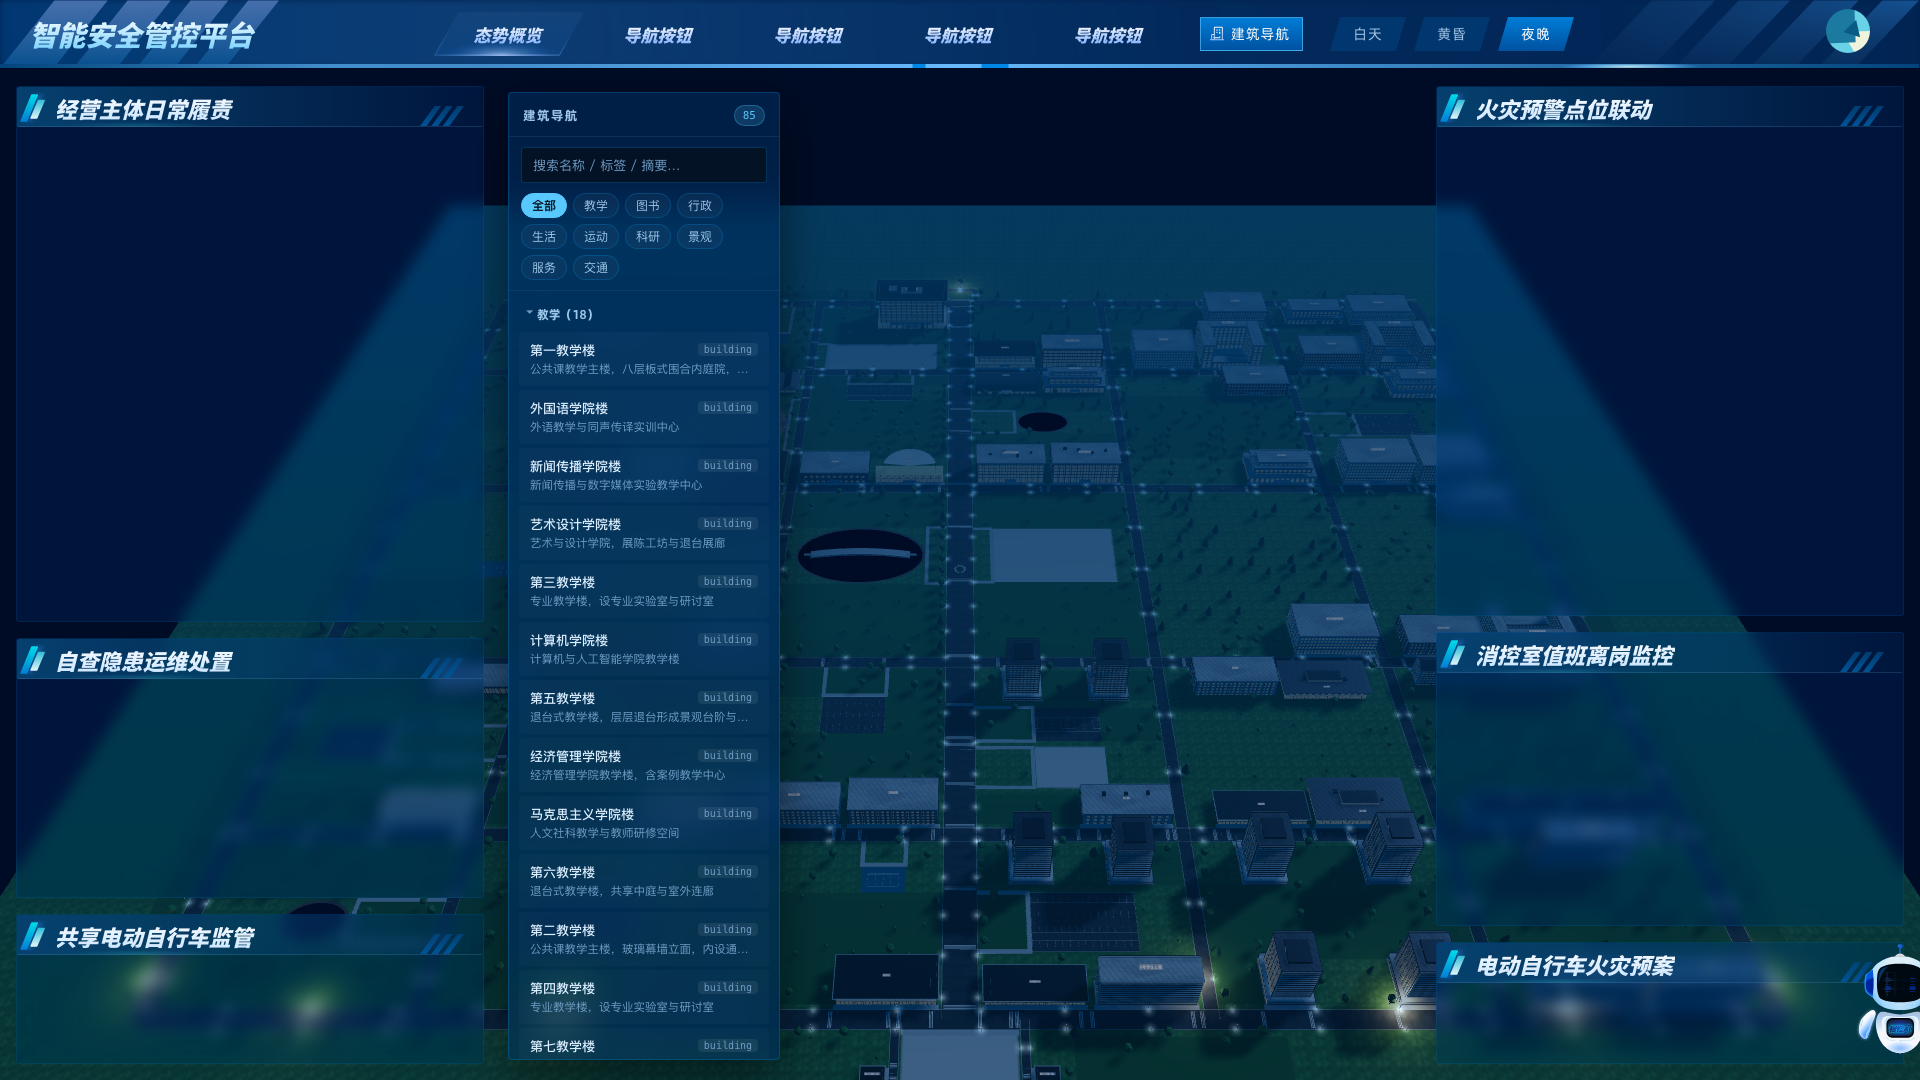
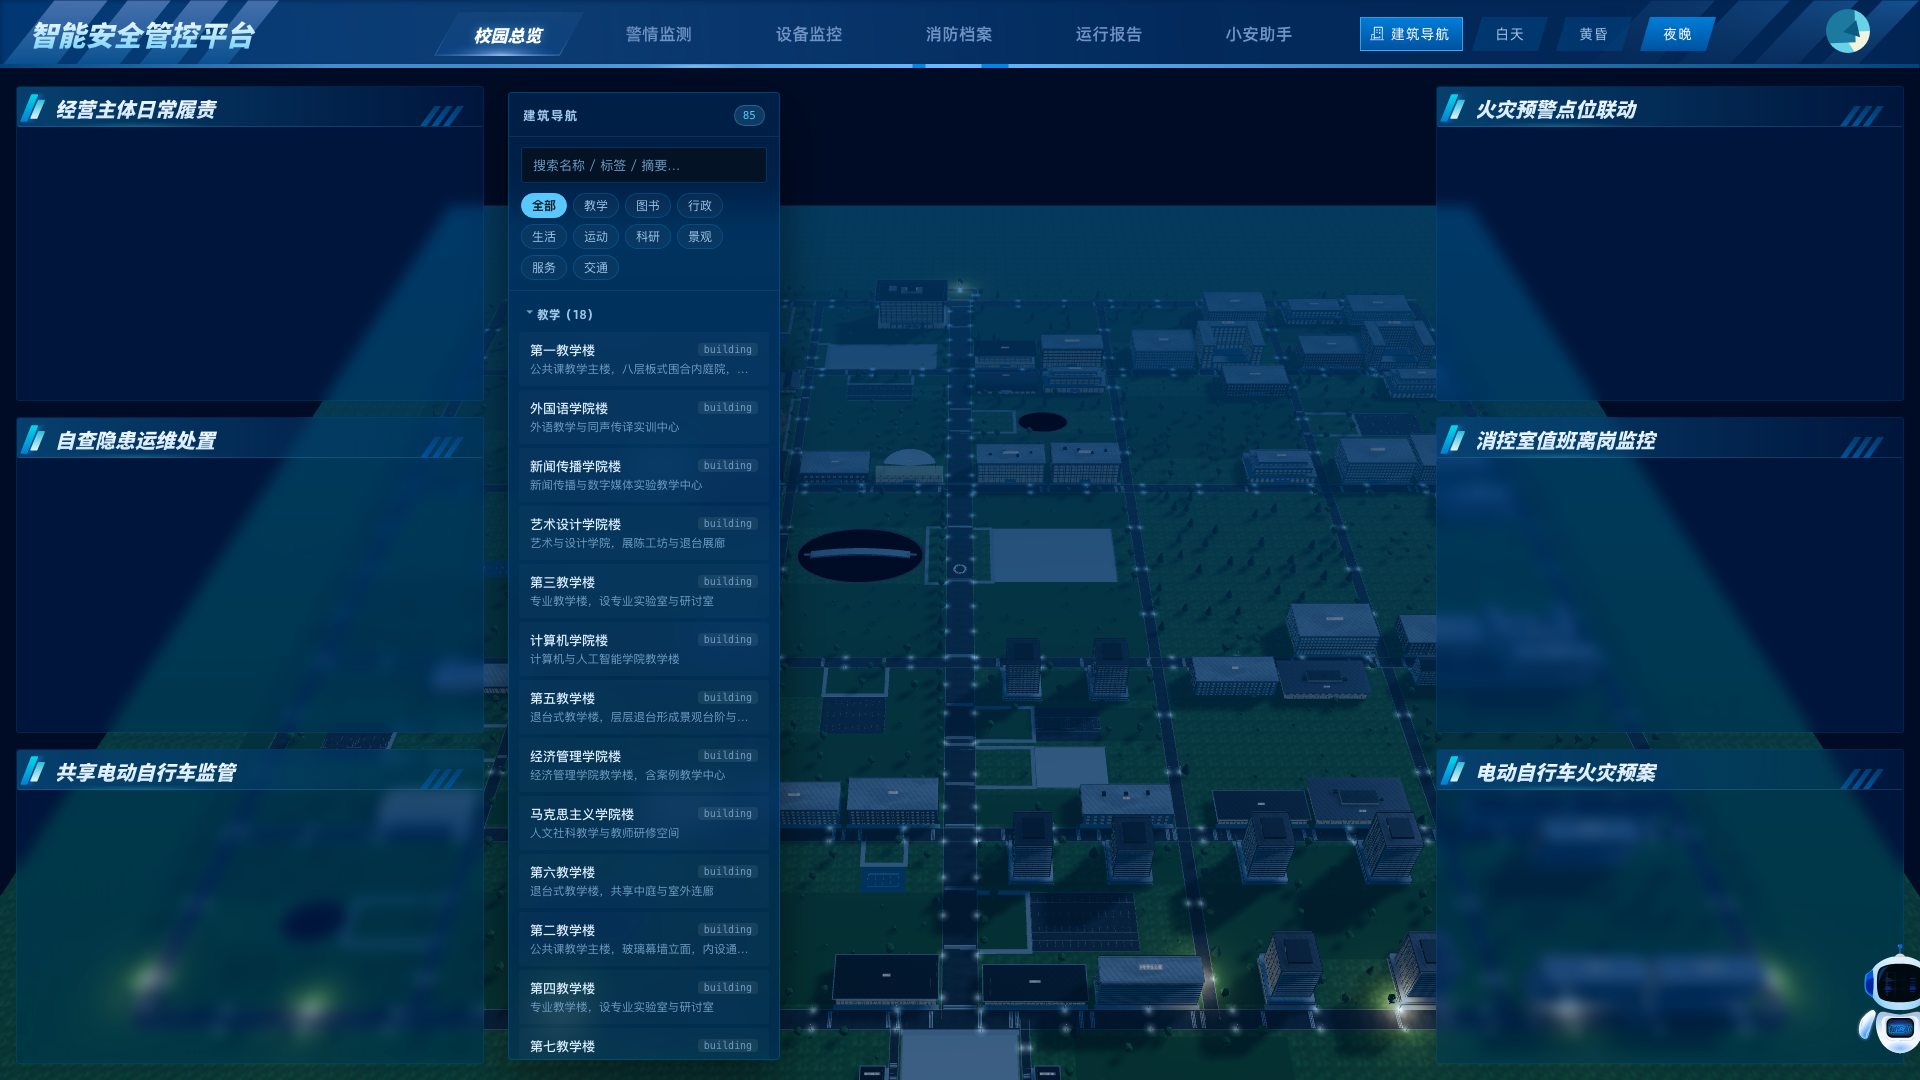
docs(大屏): 同步导航两态实测数据并归档对照截图
- 记录两态区分度的统一量法与三组对比数据（改造前 1.00× / 设计稿 1.18× / 改造后 1.52×）
- 替换原先无法复算的 3.55×/2.42× 数值
- 归档设计稿导出图、改造前后纯文字对照图与导航实拍图

diff --git a/.claude/CLAUDE.md b/.claude/CLAUDE.md
@@ -264,6 +264,22 @@ src/api/adapters/
 - **拟态玻璃**：标题条底衬 `rgba(0,52,106,.55)` + `blur(10px)`；模块卡片 `rgba(0,48,100,.28)` + `blur(7px)`，下层三维模型隐隐透出、模块内容仍清晰
 - **玻璃有帧率代价**：持续重绘的 WebGL 画布上，`backdrop-filter` 每帧重算，静止帧率 52→31fps（成本来自"存在 backdrop-filter"本身，不是模糊半径或图层数量）
 - **大标题字号走 prop**：`BigscreenTitleBar` 的 `titleSize` / `titleTop` 默认 36 / 10（旧大屏像素不变），v2 传 28 / 16；导航按钮 142×41 放大为 150×46
+- **顶栏按新版设计稿 frame #51:1776 / header #51:1783 还原**：玻璃底衬 `rgba(0,52,106,.55)` + `blur(10px)`、1932×68 斜纹图、1932×4 底部线（y=64）、144×4 辉光（y=64）、大标题 x=32 y=16 28px 渐变 `#FFFFFF→#7FD4FF`、导航 x=434 y=11、用户区 x=1767
+- **导航选中 / 未选中是两套字体与配色**（Figma 51:1800）：选中项 51:1801 = 斜切平行四边形底（`nav-v2-active-glow.svg` 径向辉光+描边 + `nav-v2-active-base.svg` 线性底 0.2）；未选中项无底图形
+- **导航两态的区分靠"选中更亮更细、未选中更暗更粗"**：设计稿给的未选中色 `#A8C8FF` 比选中渐变下段 `#89B5FF` 还亮，未选中又用普惠体 Bold（墨量大）、选中是细笔画的演示斜黑体，两态层级是反的。改为：**选中纯白 `#FFFFFF` + `text-shadow 0 0 10px rgba(120,200,255,.5)`；未选中 `#6E93C4` + 普惠体 Medium 500**
+- **两态区分度的实测口径与结论**（量法：亮度 L=0.2126R+0.7152G+0.0722B；取导航文字所在行区间 → 背景 = 该区间亮度 20 分位 → 文字像素 = L > 背景+30 → 峰值 = 最大 L、P90 = 最亮 10% 文字像素均值、全像素均亮 = 文字像素均值；比值 = 选中值 ÷ 5 个未选中值均值）：
+  | 对象 | 峰值比 | P90 比 | 全像素均亮比 |
+  |---|---|---|---|
+  | 实现·改造前 | 1.00× | 1.00× | 0.95× |
+  | 设计稿 51:1800 | 1.18× | 1.19× | 1.04× |
+  | 实现·改造后 | 1.52× | 1.58× | 1.25× |
+  - 改造前实现里 6 项共用同一条 `.v2-nav__text` 规则，文字像素完全一致（1.00×），两态差别只来自选中项底部的平行四边形图形
+  - 设计稿自身两态也很接近（均亮 1.04×），所以照设计稿直译同样看不出差别
+  - 量的时候必须先隐藏 `.v2-nav__glow` / `.v2-nav__fill`，否则选中项的底图形与辉光会混进"文字像素"污染数值
+  - 原始截图：`screenshots/ebike-compare/_nav-textonly-before.png`、`_nav-textonly-after.png`、`_figma-nav-51-1800.png`
+- **选中文字不用 `background-clip` 渐变**：17px 小字上垂直渐变几乎看不出，且渐变裁剪会把 `text-shadow` 一起裁掉、辉光显示异常
+- **导航字体用独立字体族名声明**（`ebike-v2-fonts.css` 的 `NavKeynote` / `NavPuHuiTiMedium`）：直接声明 `Alibaba PuHuiTi` 只给单个字重会让页面其它位置被合成，故换族名只作用于导航。代价是两个字体文件共 19.5MB（`Source-KeynoteartHans.otf` 10MB + `Alibaba-PuHuiTi-Medium.ttf` 9.5MB）
+- **建筑导航开关与昼夜切换不在设计稿里**，是自加控件，放在导航与用户区之间的空档（建筑导航 x=1360、昼夜 x=1472，用户区从 1767 起）；导航增到 6 项后右边界到 1334，原位置 1200 / 1330 会压住按钮
 - **顶栏底图按 68px 通栏重排**（`src/assets/bigscreen/ebike-v2/header-bg.svg`）：斜纹组 `translate(0 -6) scale(1 1.0625)` 拉到 0~68 满高
 - **`<img>` 加载的 SVG 默认会上下留白居中**：盒子的宽高比与 SVG 自身 viewBox 比例不一致时，浏览器按 `preserveAspectRatio="xMidYMid meet"` 缩放并在剩余方向留白。实测底图盒 1690.5×66.11（比例 25.57）vs SVG 1932×68（比例 28.41）→ 内容按宽缩放 0.875、高 59.5，上下各留 3.3px，装饰线实际落在 CSS 59.0~62.8 而不是贴底。**三个 SVG（底图 / 装饰线 / 辉光）全部加 `preserveAspectRatio="none"`** 消除留白
 - **装饰线拆成独立图层用代码定位**（`header-line.svg` + `.v2-header-line`）：`bottom:0` + `height: vh(4)`，与 `.v2-header-glow` 共用同一基准带，两者必然严格重合，不受视口比例影响。装饰线底边实测 CSS 62.2~66.1，正好等于标题条底边 66.11
